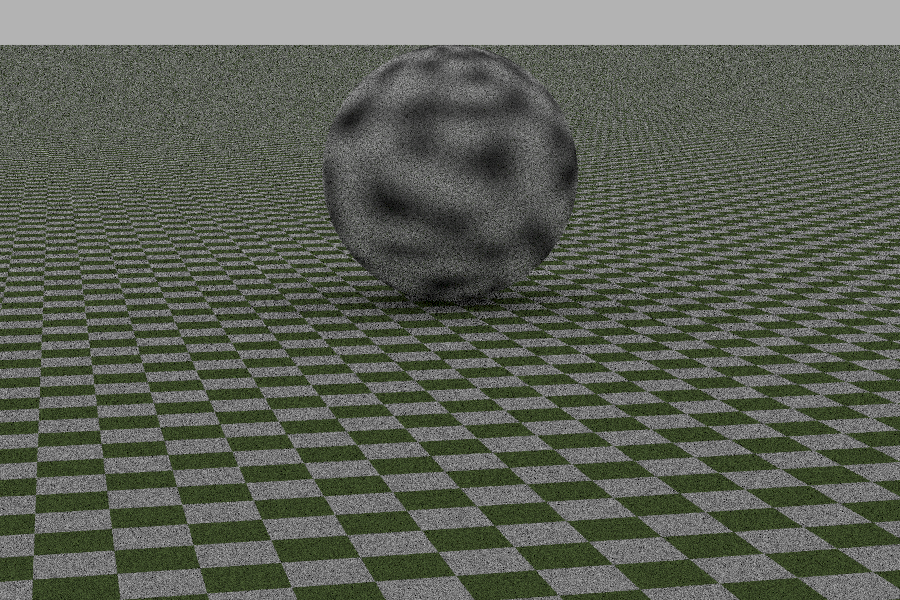
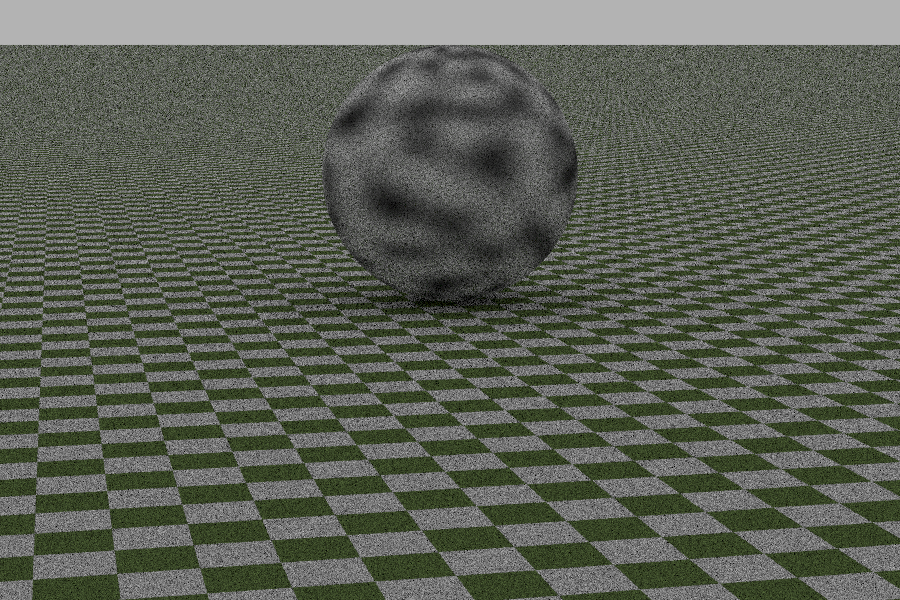
Switch to image lib

diff --git a/raytracer/src/color.rs b/raytracer/src/color.rs
@@ -6,16 +6,11 @@ pub struct Color {
     pub r: u8,
     pub g: u8,
     pub b: u8,
-    pub a: u8,
 }
 
 impl Color {
     pub fn rgb(r: u8, g: u8, b: u8) -> Color {
-        Color { r, g, b, a: 255 }
-    }
-
-    pub fn rgba(r: u8, g: u8, b: u8, a: u8) -> Color {
-        Color { r, g, b, a }
+        Color { r, g, b }
     }
 
     pub fn from_vec3(v: Vec3) -> Self {
@@ -34,32 +29,24 @@ impl Color {
             c as u8
         }
 
-        Color::rgba(
-            component(self.r),
-            component(self.g),
-            component(self.b),
-            self.a,
-        )
+        Color::rgb(component(self.r), component(self.g), component(self.b))
     }
 
     pub fn average(colors: &[Color]) -> Self {
         let mut tr: u64 = 0;
         let mut tg: u64 = 0;
         let mut tb: u64 = 0;
-        let mut ta: u64 = 0;
         for color in colors {
             tr += color.r as u64;
             tg += color.g as u64;
             tb += color.b as u64;
-            ta += color.a as u64;
         }
 
         let len = colors.len() as u64;
         let r = tr / len;
         let g = tg / len;
         let b = tb / len;
-        let a = ta / len;
-        Color::rgba(r as u8, g as u8, b as u8, a as u8)
+        Color::rgb(r as u8, g as u8, b as u8)
     }
 }
 

diff --git a/raytracer_cli/src/pixel_data.rs b/raytracer_cli/src/pixel_data.rs
@@ -1,0 +1,38 @@
+use std::path::Path;
+
+use image::RgbImage;
+
+use raytracer::Color;
+
+const GAMMA_CORRECTION: bool = true;
+
+#[derive(Debug, Clone)]
+pub struct PixelData {
+    width: usize,
+    height: usize,
+    buffer: RgbImage,
+}
+
+impl PixelData {
+    pub fn new(width: usize, height: usize) -> Self {
+        PixelData {
+            width,
+            height,
+            buffer: RgbImage::new(width as _, height as _),
+        }
+    }
+
+    pub fn set_pixel(&mut self, x: usize, y: usize, color: Color) {
+        let color = if GAMMA_CORRECTION {
+            color.gamma_corrected()
+        } else {
+            color
+        };
+        self.buffer
+            .put_pixel(x as _, y as _, image::Rgb([color.r, color.g, color.b]));
+    }
+
+    pub fn save<P: AsRef<Path>>(&self, path: P) -> Result<(), image::error::ImageError> {
+        self.buffer.save(path)
+    }
+}

diff --git a/raytracer_cli/src/main.rs b/raytracer_cli/src/main.rs
@@ -13,11 +13,11 @@ use threadpool::ThreadPool;
 use raytracer::{self, Camera, Color, FloatTy, Hittable, Vec3};
 
 mod default_scene;
-mod image;
+mod pixel_data;
 mod scene_description;
 lalrpop_mod!(pub grammar);
 
-use image::Image;
+use pixel_data::PixelData;
 use scene_description::{SceneDescription, SceneDescriptionBuilder};
 
 #[derive(Debug)]
@@ -104,7 +104,7 @@ fn main() {
 
     let sample_count = preset.sample_count;
 
-    let mut image = Image::new(nx, ny);
+    let mut image = PixelData::new(nx, ny);
 
     let (send, recv) = mpsc::channel();
     let pool = ThreadPool::new(16);
@@ -147,5 +147,5 @@ fn main() {
     }
 
     let output_path = "./last_result.png";
-    image.output_as_png(output_path).unwrap();
+    image.save(output_path).unwrap();
 }
